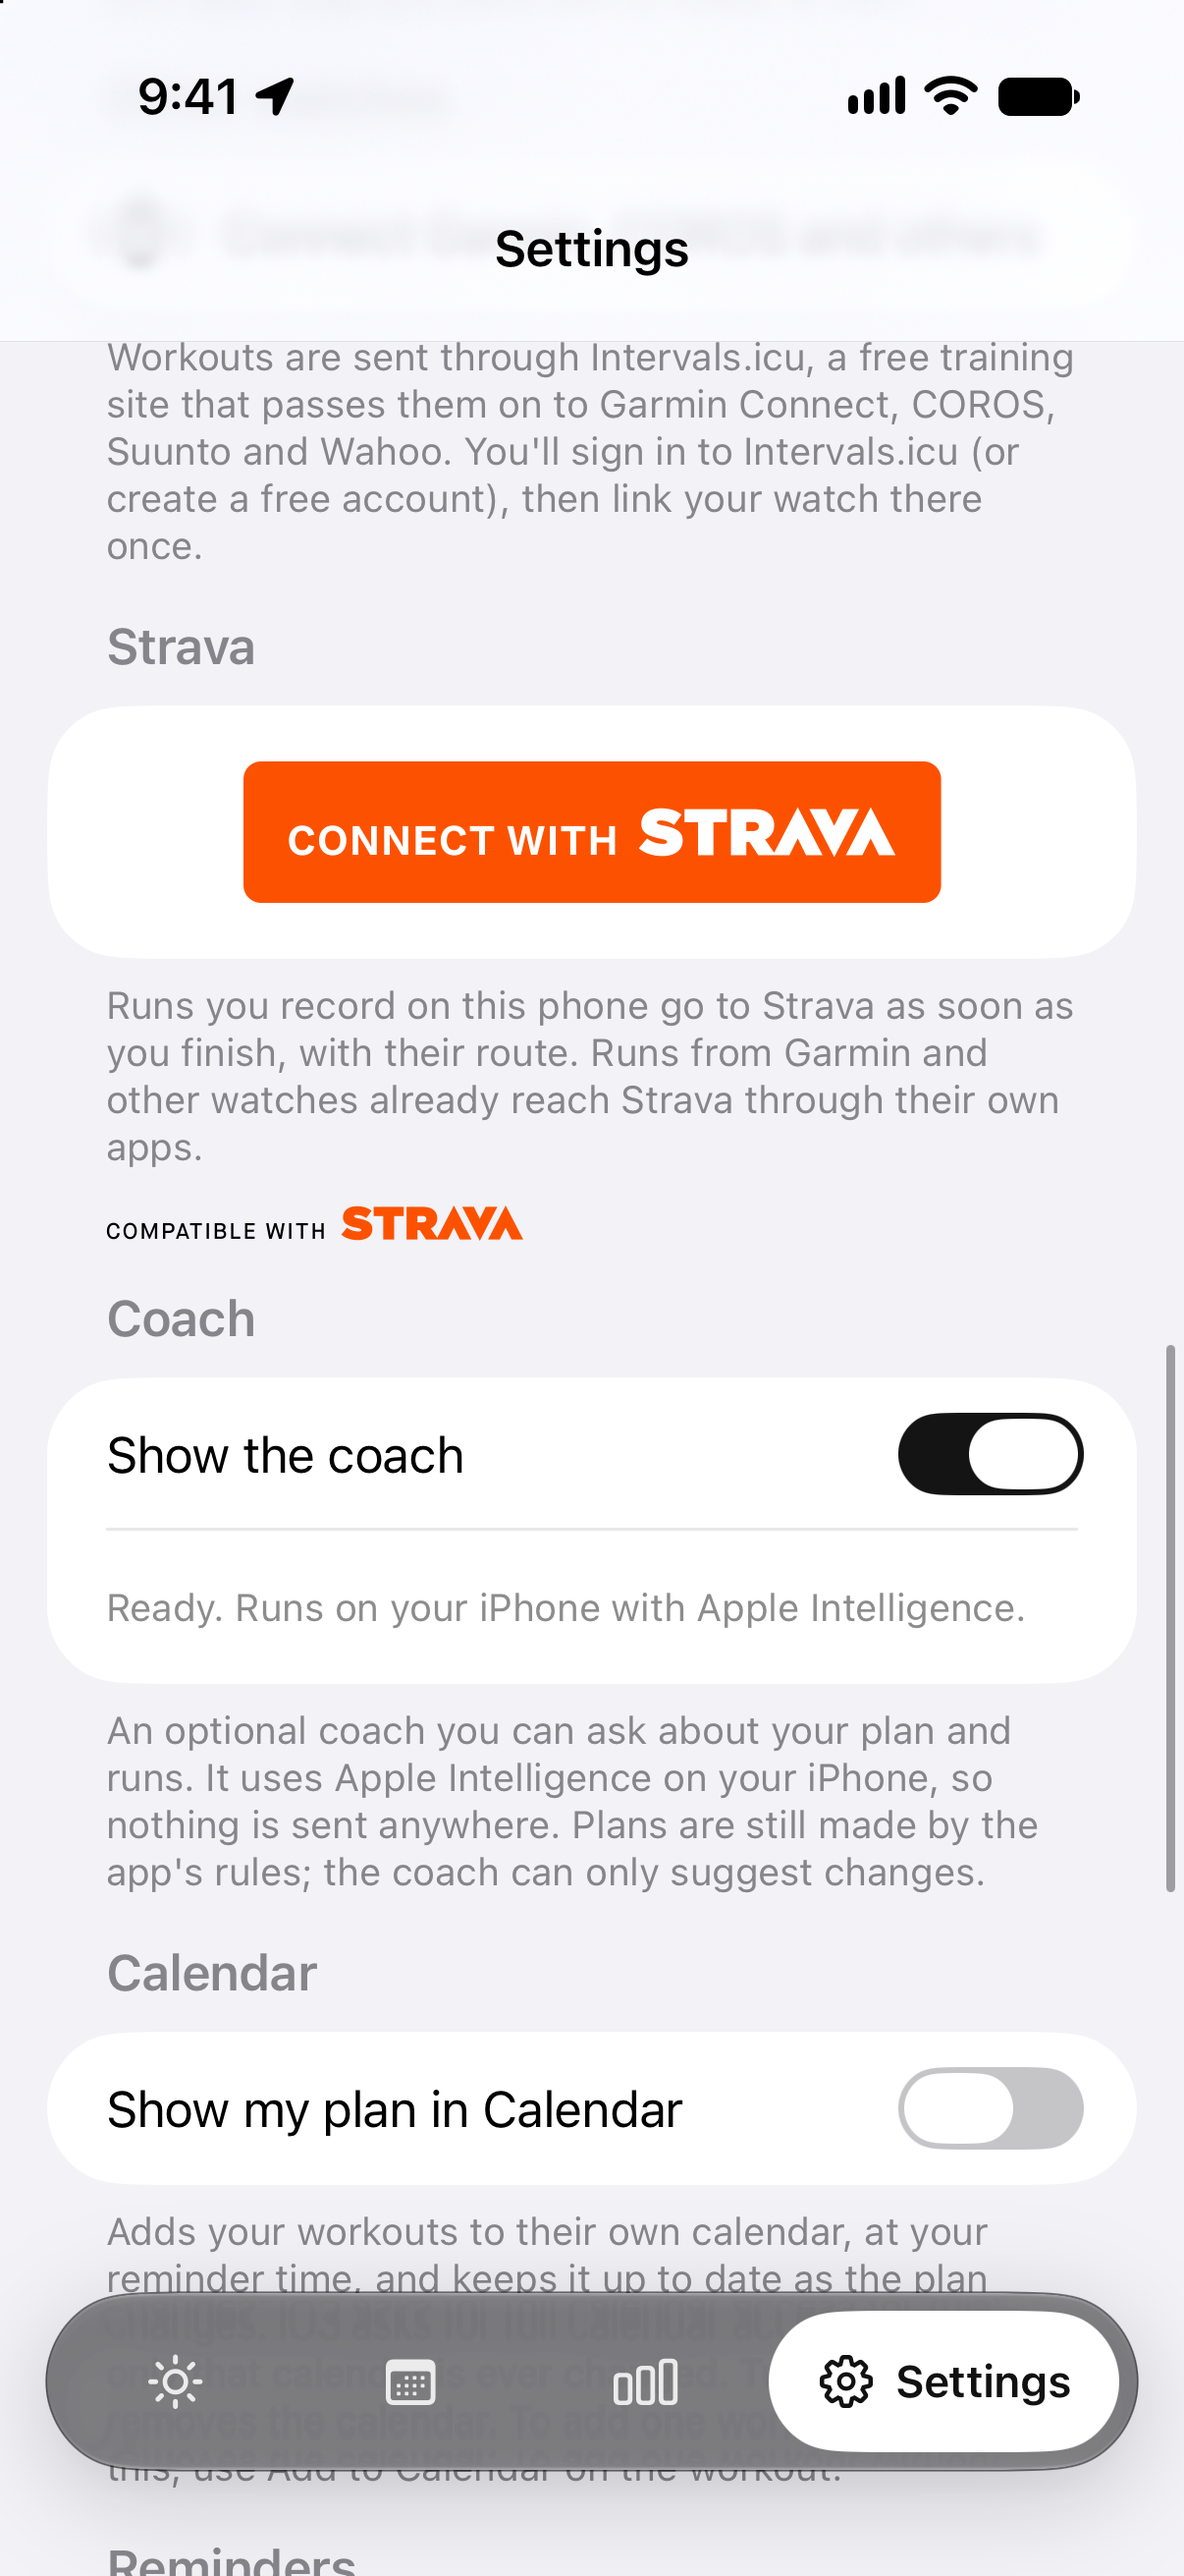
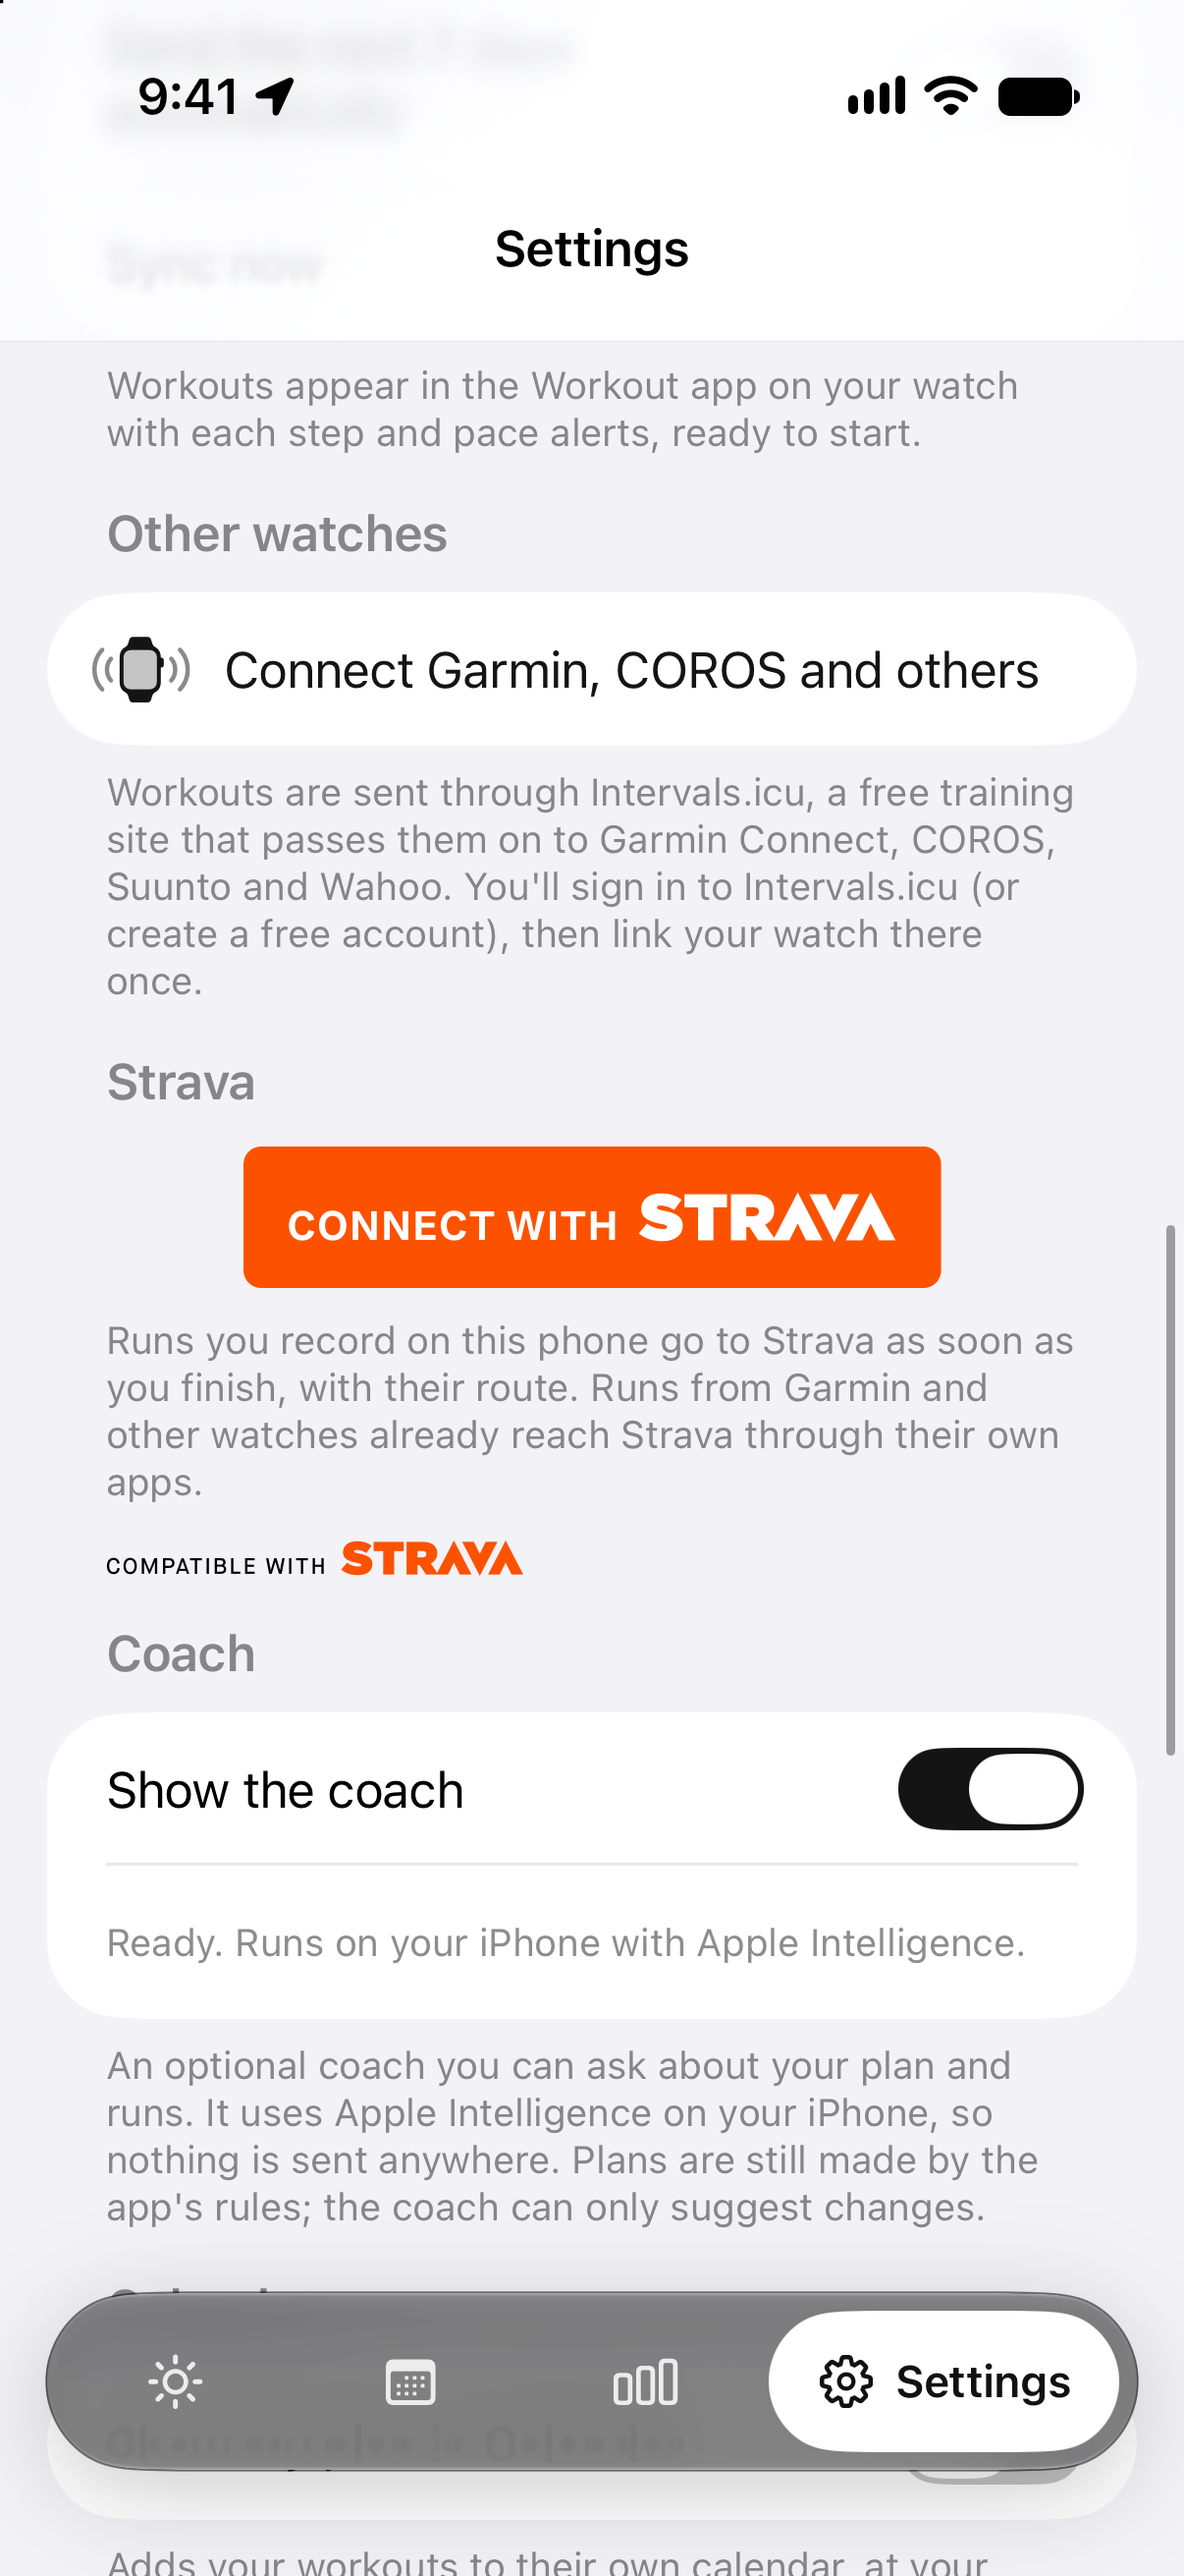
Show the Connect with Strava button on the page, not inside a card

diff --git a/App/Features/Settings/SettingsView.swift b/App/Features/Settings/SettingsView.swift
@@ -750,9 +750,11 @@ private struct StravaSection: View {
                 }
                 Button("Disconnect", role: .destructive) { confirmDisconnect = true }
             } else {
+                // On the page itself rather than inside a white card: Strava's artwork can't be stretched to fill one.
                 connectButton
                     .frame(maxWidth: .infinity)
-                    .padding(.vertical, 4)
+                    .listRowBackground(Color.clear)
+                    .listRowInsets(EdgeInsets())
             }
         } header: {
             Text("Strava")
